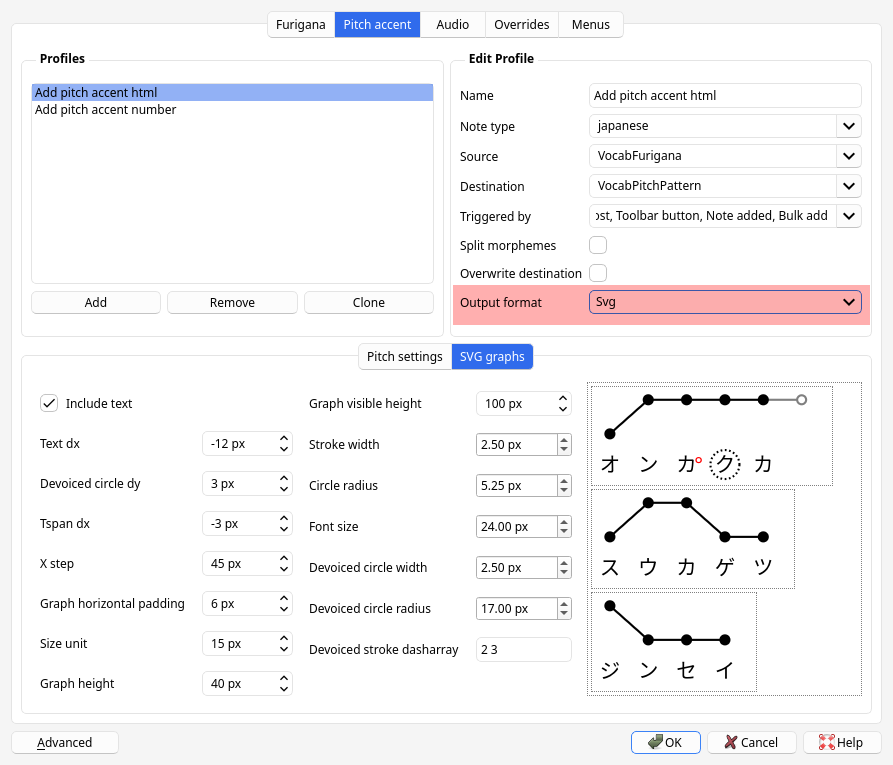
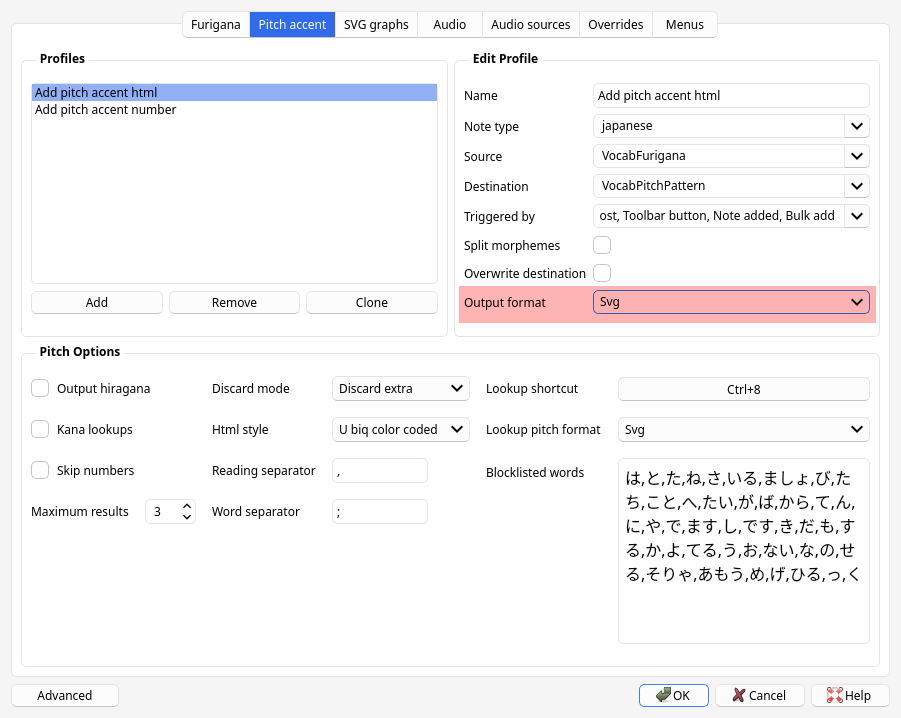
update screenshots

diff --git a/blog/anki-japanese-support.html b/blog/anki-japanese-support.html
@@ -293,10 +293,13 @@ the add-on generates SVG pictures to allow for a more elaborate graphical repres
 &quot;Number&quot; simply indicates
 <a href="understanding-monolingual-definitions#understanding-pitch-accent">where pitch drops</a>.</p>
 <p>Appearance of SVG graphs can be configured in
-&quot;AJT&quot; &gt; &quot;Japanese options&quot; &gt; &quot;Pitch accent&quot; &gt; &quot;SVG graphs&quot;.
+&quot;AJT&quot; &gt; &quot;Japanese options&quot; &gt; &quot;SVG graphs&quot;.
 There are many knobs,
-but you can play with them while looking at the previews on the right side if you want.</p>
-<p align="center"><img src="img/ajt-japanese-svg-opts.webp" alt="change SVG appearance"/></p>
+but you can play with them while looking at the previews on the right side if you want.
+These settings take effect if you have &quot;Output format&quot; set to &quot;Svg&quot;.</p>
+<p align="center"><img src="img/ajt-japanese-svg-opts.webp" alt="SVG output format"/></p>
+<p align="center"><i>SVG output format.</i></p>
+<p align="center"><img src="img/ajt-japanese-svg-appearance.webp" alt="change SVG appearance"/></p>
 <p align="center"><i>SVG appearance settings.</i></p>
 <details>
 <summary>SVG: Further styling</summary>
@@ -405,7 +408,7 @@ The colors used are:</p>
 <li>Odaka words: Green</li>
 <li>Nakadaka words: Orange</li>
 </ul>
-<p align="center"><img src="https://github.com/Ajatt-Tools/Japanese/raw/main/img/pitch_accent_on_hover.webp" alt="color coded words"/></p>
+<p align="center"><img src="img/ajt-japanese-pitch_accent_on_hover.webp" alt="color coded words"/></p>
 <p align="center"><i>Color-coded words in a sentence.</i></p>
 <p>This feature is experimental and disabled by default,
 but you can enable it by setting the &quot;color code pitch&quot; option to &quot;color&quot; or &quot;underline&quot;.
@@ -437,10 +440,12 @@ Save the changes.</p>
 </details>
 <h2 id="audio-files"><a class="anchor" href="#audio-files" title="Permanent link"><svg aria-hidden="true" class="aal_svg" height="16" version="1.1" viewBox="0 0 16 16" width="16"><path fill-rule="evenodd" d="M4 9h1v1H4c-1.5 0-3-1.69-3-3.5S2.55 3 4 3h4c1.45 0 3 1.69 3 3.5 0 1.41-.91 2.72-2 3.25V8.59c.58-.45 1-1.27 1-2.09C10 5.22 8.98 4 8 4H4c-.98 0-2 1.22-2 2.5S3 9 4 9zm9-3h-1v1h1c1 0 2 1.22 2 2.5S13.98 12 13 12H9c-.98 0-2-1.22-2-2.5 0-.83.42-1.64 1-2.09V6.25c-1.09.53-2 1.84-2 3.25C6 11.31 7.55 13 9 13h4c1.45 0 3-1.69 3-3.5S14.5 6 13 6z"></path></svg></a>Audio files</h2>
 <p>AJT Japanese can add audio files from accent dictionaries to Anki cards.
-To set up audio profiles and audio sources,
+To set up audio profiles,
 go to &quot;AJT&quot; &gt; &quot;Japanese Options&quot; &gt; &quot;Audio&quot;.</p>
 <p>Add at least one audio profile, selecting the source and destination fields.</p>
-<p>Below Profiles, you will see a list of loaded audio sources.
+<p>To set up audio sources,
+go to &quot;AJT&quot; &gt; &quot;Japanese Options&quot; &gt; &quot;Audio sources&quot;.
+There you will see a list of loaded audio sources.
 Sources can be enabled or disabled.
 Each source is given an arbitrary name and a URL that points to its index file.</p>
 <p>When a new source is added, AJT Japanese downloads its index file

diff --git a/blog/anki-japanese-support.md b/blog/anki-japanese-support.md
@@ -266,11 +266,15 @@ the add-on generates SVG pictures to allow for a more elaborate graphical repres
 [where pitch drops](understanding-monolingual-definitions#understanding-pitch-accent).
 
 Appearance of SVG graphs can be configured in
-"AJT" > "Japanese options" > "Pitch accent" > "SVG graphs".
+"AJT" > "Japanese options" > "SVG graphs".
 There are many knobs,
 but you can play with them while looking at the previews on the right side if you want.
+These settings take effect if you have "Output format" set to "Svg".
 
-<p align="center"><img src="img/ajt-japanese-svg-opts.webp" alt="change SVG appearance"/></p>
+<p align="center"><img src="img/ajt-japanese-svg-opts.webp" alt="SVG output format"/></p>
+<p align="center"><i>SVG output format.</i></p>
+
+<p align="center"><img src="img/ajt-japanese-svg-appearance.webp" alt="change SVG appearance"/></p>
 <p align="center"><i>SVG appearance settings.</i></p>
 
 <details>
@@ -389,7 +393,7 @@ The colors used are:
 * Odaka words: Green
 * Nakadaka words: Orange
 
-<p align="center"><img src="https://github.com/Ajatt-Tools/Japanese/raw/main/img/pitch_accent_on_hover.webp" alt="color coded words"/></p>
+<p align="center"><img src="img/ajt-japanese-pitch_accent_on_hover.webp" alt="color coded words"/></p>
 <p align="center"><i>Color-coded words in a sentence.</i></p>
 
 This feature is experimental and disabled by default,
@@ -434,12 +438,14 @@ Save the changes.
 ## Audio files
 
 AJT Japanese can add audio files from accent dictionaries to Anki cards.
-To set up audio profiles and audio sources,
+To set up audio profiles,
 go to "AJT" > "Japanese Options" > "Audio".
 
 Add at least one audio profile, selecting the source and destination fields.
 
-Below Profiles, you will see a list of loaded audio sources.
+To set up audio sources,
+go to "AJT" > "Japanese Options" > "Audio sources".
+There you will see a list of loaded audio sources.
 Sources can be enabled or disabled.
 Each source is given an arbitrary name and a URL that points to its index file.
 
